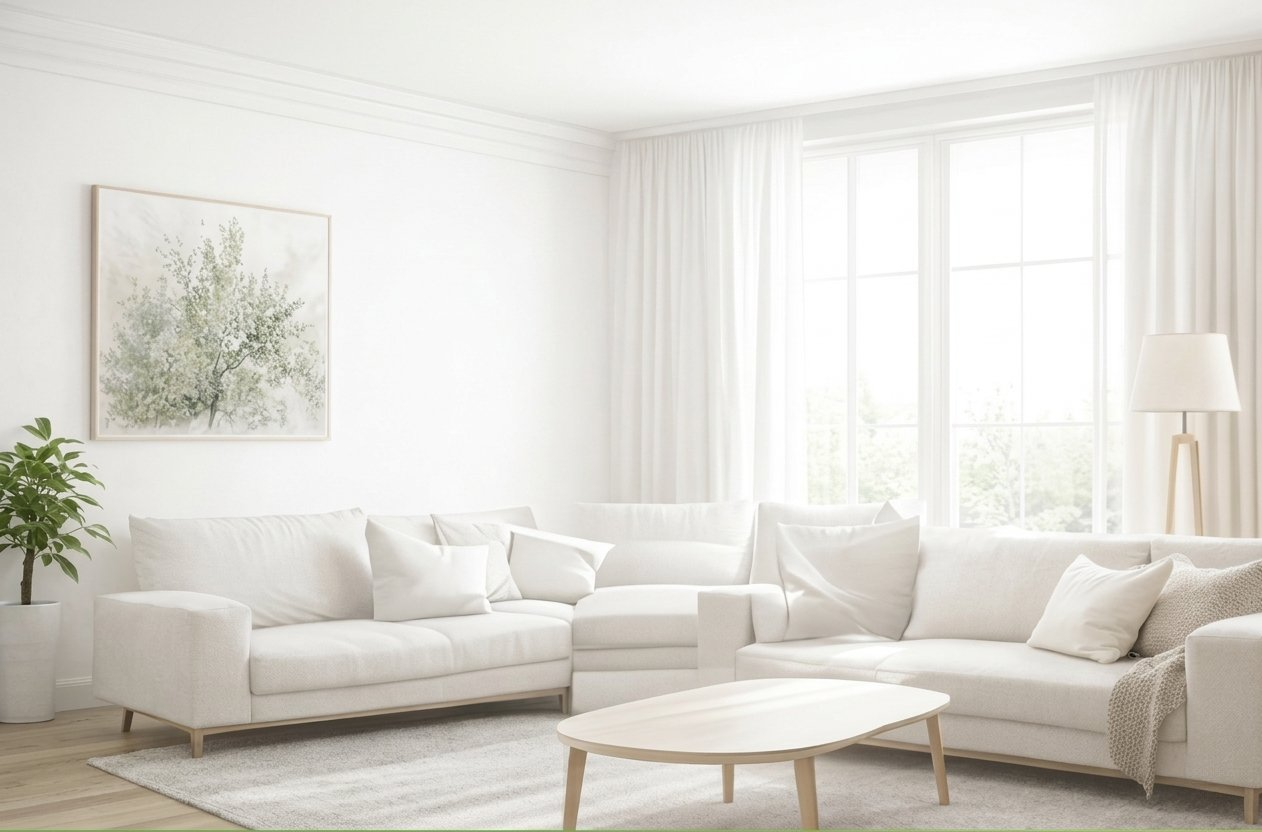
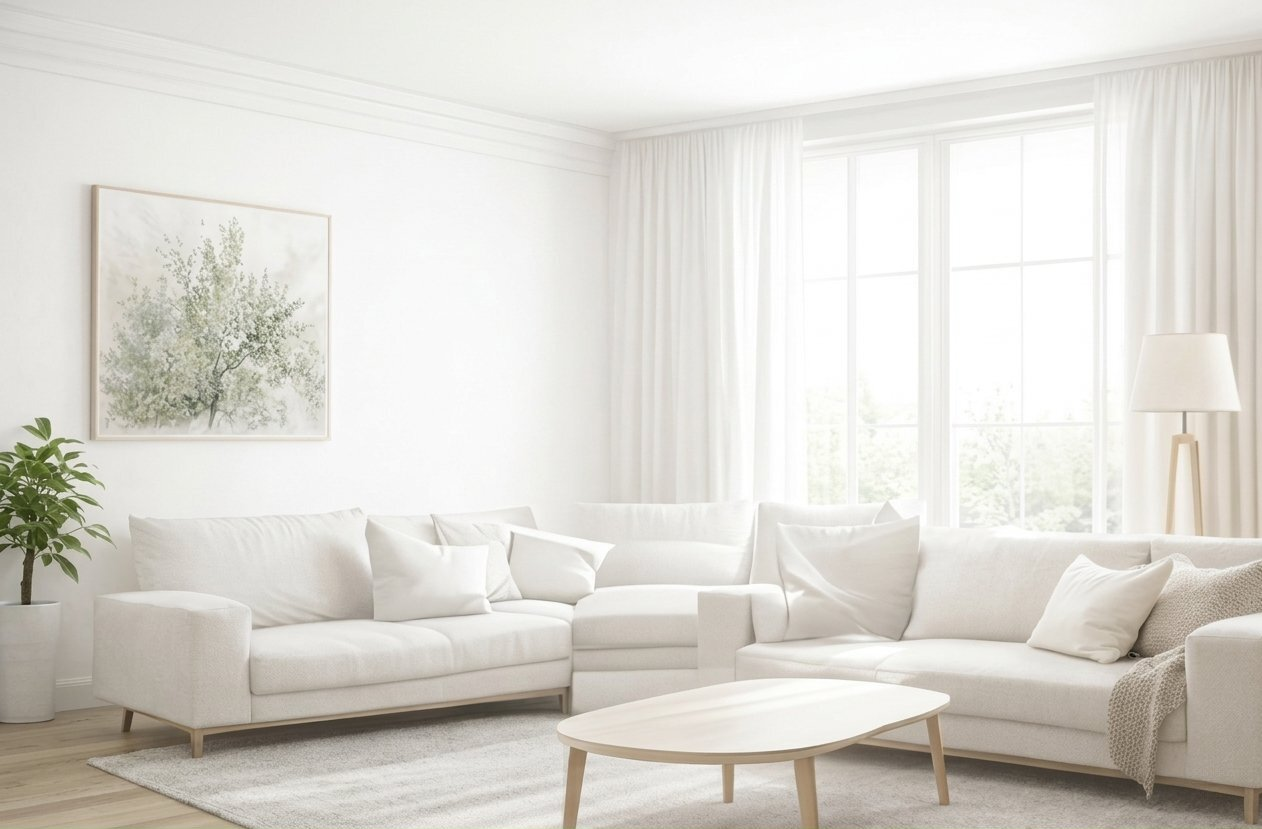
changes to the hero

diff --git a/components/EquipmentShowcase.tsx b/components/EquipmentShowcase.tsx
@@ -95,6 +95,7 @@ const EQUIPMENT = [
 
 function VideoBlock({ src, poster }: { src: string; poster: string }) {
   const [playing, setPlaying] = useState(false);
+  const [fullscreen, setFullscreen] = useState(false);
   const ref = useRef<HTMLVideoElement>(null);
 
   const handlePlay = () => {
@@ -102,31 +103,72 @@ function VideoBlock({ src, poster }: { src: string; poster: string }) {
     setPlaying(true);
   };
 
+  const toggleFullscreen = () => {
+    setFullscreen(!fullscreen);
+  };
+
   return (
-    <div className="relative w-full rounded-[20px] overflow-hidden bg-black shrink-0"
-         style={{ aspectRatio: "1/1.5", boxShadow: "0px 4px 20px rgba(0,0,0,0.18)" }}>
-      <video
-        ref={ref}
-        src={src}
-        poster={poster}
-        className="w-full h-full object-cover"
-        playsInline
-        preload="none"
-        controls={playing}
-        onEnded={() => setPlaying(false)}
-      />
-      {!playing && (
-        <div className="absolute inset-0 flex items-center justify-center bg-black/25 cursor-pointer"
-             onClick={handlePlay}>
-          <div className="w-[64px] h-[64px] bg-white/90 rounded-full flex items-center justify-center hover:bg-white transition-colors"
-               style={{ boxShadow: "0px 4px 16px rgba(0,0,0,0.25)" }}>
-            <svg width="22" height="26" viewBox="0 0 22 26" fill="none" style={{ transform: "translateX(2px)" }}>
-              <path d="M2 2L20 13L2 24V2Z" fill="#00db9a" stroke="#00db9a" strokeWidth="2" strokeLinecap="round" strokeLinejoin="round"/>
-            </svg>
+    <>
+      <div className="relative w-full rounded-[20px] overflow-hidden bg-black shrink-0"
+           style={{ aspectRatio: "1/1", boxShadow: "0px 4px 20px rgba(0,0,0,0.18)" }}>
+        <video
+          ref={ref}
+          src={src}
+          poster={poster}
+          className="w-full h-full object-cover"
+          playsInline
+          preload="none"
+          controls={playing}
+          onEnded={() => setPlaying(false)}
+        />
+        {!playing && (
+          <div className="absolute inset-0 flex items-center justify-center bg-black/25 cursor-pointer"
+               onClick={handlePlay}>
+            <div className="w-[64px] h-[64px] bg-white/90 rounded-full flex items-center justify-center hover:bg-white transition-colors"
+                 style={{ boxShadow: "0px 4px 16px rgba(0,0,0,0.25)" }}>
+              <svg width="22" height="26" viewBox="0 0 22 26" fill="none" style={{ transform: "translateX(2px)" }}>
+                <path d="M2 2L20 13L2 24V2Z" fill="#00db9a" stroke="#00db9a" strokeWidth="2" strokeLinecap="round" strokeLinejoin="round"/>
+              </svg>
+            </div>
           </div>
+        )}
+        {playing && (
+          <button
+            onClick={toggleFullscreen}
+            className="absolute top-3 right-3 w-[40px] h-[40px] bg-black/50 rounded-full flex items-center justify-center hover:bg-black/70 transition-colors z-10"
+            style={{ boxShadow: "0px 2px 8px rgba(0,0,0,0.3)" }}>
+            <svg width="20" height="20" viewBox="0 0 20 20" fill="none">
+              <path d="M3 3H8M3 3V8M3 3L8 8M17 3H12M17 3V8M17 3L12 8M3 17H8M3 17V12M3 17L8 12M17 17H12M17 17V12M17 17L12 12" 
+                    stroke="white" strokeWidth="2" strokeLinecap="round" strokeLinejoin="round"/>
+            </svg>
+          </button>
+        )}
+      </div>
+      
+      {/* Fullscreen modal */}
+      {fullscreen && (
+        <div className="fixed inset-0 bg-black/95 z-50 flex items-center justify-center p-4"
+             onClick={toggleFullscreen}>
+          <button
+            onClick={toggleFullscreen}
+            className="absolute top-4 right-4 w-[48px] h-[48px] bg-white/10 rounded-full flex items-center justify-center hover:bg-white/20 transition-colors"
+            style={{ boxShadow: "0px 4px 16px rgba(0,0,0,0.5)" }}>
+            <svg width="24" height="24" viewBox="0 0 24 24" fill="none">
+              <path d="M18 6L6 18M6 6L18 18" stroke="white" strokeWidth="2" strokeLinecap="round" strokeLinejoin="round"/>
+            </svg>
+          </button>
+          <video
+            src={src}
+            poster={poster}
+            className="max-w-full max-h-full"
+            playsInline
+            controls
+            autoPlay
+            onClick={(e) => e.stopPropagation()}
+          />
         </div>
       )}
-    </div>
+    </>
   );
 }
 
@@ -162,6 +204,7 @@ export default function EquipmentShowcase() {
   const { lang } = useLang();
   const [active, setActive] = useState(0);
   const scrollRef = useRef<HTMLDivElement>(null);
+  const autoplayRef = useRef<NodeJS.Timeout | null>(null);
 
   const handleDotClick = (i: number) => {
     setActive(i);
@@ -169,6 +212,11 @@ export default function EquipmentShowcase() {
     if (el) {
       el.scrollTo({ left: i * el.offsetWidth, behavior: "smooth" });
     }
+    // Сброс автоплея при ручном взаимодействии
+    if (autoplayRef.current) {
+      clearInterval(autoplayRef.current);
+    }
+    startAutoplay();
   };
 
   const handleScroll = () => {
@@ -178,6 +226,35 @@ export default function EquipmentShowcase() {
       setActive(idx);
     }
   };
+
+  const startAutoplay = () => {
+    if (autoplayRef.current) {
+      clearInterval(autoplayRef.current);
+    }
+    autoplayRef.current = setInterval(() => {
+      setActive((prev) => {
+        const next = (prev + 1) % EQUIPMENT.length;
+        const el = scrollRef.current;
+        if (el) {
+          el.scrollTo({ left: next * el.offsetWidth, behavior: "smooth" });
+        }
+        return next;
+      });
+    }, 5000); // 5 секунд
+  };
+
+  // Автоплей на мобильных
+  React.useEffect(() => {
+    const isMobile = window.innerWidth < 768;
+    if (isMobile) {
+      startAutoplay();
+    }
+    return () => {
+      if (autoplayRef.current) {
+        clearInterval(autoplayRef.current);
+      }
+    };
+  }, []);
 
   const titles: Record<string, string> = {
     RU: "Как работает наше оборудование",

diff --git a/lib/translations.ts b/lib/translations.ts
@@ -11,12 +11,12 @@ export const t = {
     advantages: {
       title: "Наши преимущества",
       cards: [
-        { title: "3-ступенчатая очистка",        text: "Уникальная технология глубокой очистки ткани в 3 этапа." },
-        { title: "Чистим до результата",          text: "Без ограничений по времени — работаем пока не будет идеально." },
-        { title: "Сушка за 2-4 часа",             text: "Быстро возвращаем мебель в использование." },
-        { title: "Безопасно для детей и животных", text: "Экологичные средства без вреда для здоровья." },
-        { title: "Профессиональный персонал",      text: "Опыт, сертификаты и добросовестная работа." },
-        { title: "Фиксированная цена",             text: "Никаких доплат после чистки — цена окончательная." },
+        { title: "VIP уровень обслуживания",        text: "Тщательный подход и результат, близкий к идеалу" },
+        { title: "Работа с дорогой мебелью",          text: "Бережный уход за деликатными тканями, мягкой мебелью и коврами" },
+        { title: "ЭКО и безопасность",             text: "Безопасные для детей, животных и аллергиков эко-средства и мощная паровая очистка, уничтожающая 99.9% бактерий и клещей" },
+        { title: "Профессиональное оборудование", text: "Моющий пылесос Kirby 2-го поколения, Sabrina, мощные парогенераторы и тряпки Raypath, позволяющие деликатно и в то же время глубоко очистить поверхность" },
+        { title: "Чистим до результата",      text: "Без ограничений по времени — работаем, пока не будет идеально без каких-либо доплат с вашей стороны." },
+        { title: "3-х ступенчатая очистка",             text: "Уникальная технология глубокой очистки ткани в 3 этапа, включающая глубокое удаление грязи, паровую дезинфекцию и финальную чистку с промыванием экстрактором." },
       ],
     },
     promo: { gift: "Мытьё окон в подарок!", condition: "При заказе от 1000 zl" },
@@ -81,12 +81,12 @@ export const t = {
     advantages: {
       title: "Nasze zalety",
       cards: [
-        { title: "3-stopniowe czyszczenie",          text: "Unikalna technologia głębokiego czyszczenia tkaniny w 3 etapach." },
-        { title: "Czyścimy do skutku",                text: "Bez ograniczeń czasowych — pracujemy aż będzie idealnie." },
-        { title: "Suszenie w 2–4 godziny",           text: "Szybko przywracamy meble do użytku." },
-        { title: "Bezpieczne dla dzieci i zwierząt", text: "Ekologiczne środki bez szkody dla zdrowia." },
-        { title: "Profesjonalny personel",            text: "Doświadczenie, certyfikaty i rzetelna praca." },
-        { title: "Stała cena",                        text: "Żadnych dopłat po czyszczeniu — cena ostateczna." },
+        { title: "Obsługa na poziomie VIP",          text: "Staranne podejście i wynik bliski perfekcji" },
+        { title: "Praca z drogimi meblami",                text: "Delikatna pielęgnacja delikatnych tkanin, mebli tapicerowanych i dywanów" },
+        { title: "EKO i bezpieczeństwo",           text: "Bezpieczne dla dzieci, zwierząt i alergików środki ekologiczne oraz potężne czyszczenie parowe, niszczące 99,9% bakterii i roztoczy" },
+        { title: "Profesjonalny sprzęt", text: "Odkurzacz piorący Kirby 2. generacji, Sabrina, potężne parownice i ściereczki Raypath, pozwalające delikatnie i jednocześnie głęboko oczyścić powierzchnię" },
+        { title: "Czyścimy do skutku",            text: "Bez ograniczeń czasowych — pracujemy, aż będzie idealnie, bez żadnych dopłat z Twojej strony." },
+        { title: "Trójetapowe czyszczenie",                        text: "Unikalna technologia głębokiego czyszczenia tkaniny w 3 etapach, obejmująca głębokie usuwanie brudu, dezynfekcję parową i finalne czyszczenie z płukaniem ekstraktorowym." },
       ],
     },
     promo: { gift: "Mycie okien w prezencie!", condition: "Przy zamówieniu od 1000 zł" },
@@ -151,12 +151,12 @@ export const t = {
     advantages: {
       title: "Our advantages",
       cards: [
-        { title: "3-stage deep cleaning",         text: "Unique technology of deep fabric cleaning in 3 stages." },
-        { title: "We clean until perfect",         text: "No time limits — we work until the result is perfect." },
-        { title: "Drying in 2–4 hours",           text: "Your furniture is ready to use again fast." },
-        { title: "Safe for children and pets",     text: "Eco-friendly products, safe for health." },
-        { title: "Professional staff",             text: "Experience, certificates and conscientious work." },
-        { title: "Fixed price",                    text: "No extra charges after cleaning — final price." },
+        { title: "VIP level service",         text: "Meticulous approach and near-perfect results" },
+        { title: "Work with expensive furniture",         text: "Gentle care for delicate fabrics, upholstered furniture and carpets" },
+        { title: "ECO and safety",           text: "Safe for children, pets and allergy sufferers eco-friendly products and powerful steam cleaning that destroys 99.9% of bacteria and mites" },
+        { title: "Professional equipment",     text: "Kirby 2nd generation vacuum cleaner, Sabrina, powerful steam generators and Raypath cloths, allowing delicate yet deep surface cleaning" },
+        { title: "We clean until perfect",             text: "No time limits — we work until perfect with no additional charges from you." },
+        { title: "3-stage cleaning",                    text: "Unique technology of deep fabric cleaning in 3 stages, including deep dirt removal, steam disinfection and final cleaning with extractor flushing." },
       ],
     },
     promo: { gift: "Window cleaning as a gift!", condition: "For orders from 1000 zl" },

diff --git a/components/Hero.tsx b/components/Hero.tsx
@@ -13,18 +13,17 @@ export default function Hero() {
   return (
     <section className="relative mt-[104px] max-lg:mt-[80px] h-[559px] max-md:min-h-[380px] max-md:h-auto overflow-hidden bg-white">
       <div className="absolute inset-0">
-        <Image src={ASSETS.heroBg} alt="" fill className="object-cover object-center md:object-center object-right" priority unoptimized />
-
+        <Image src={ASSETS.heroBg} alt="" fill className="object-cover object-bottom" priority unoptimized />
       </div>
       <div className="relative z-10 h-full flex items-center justify-center px-6 py-16">
         <div className="flex flex-col items-center gap-14 max-w-[835px] text-center">
           <div className="flex flex-col items-center gap-8">
             <h1 className="font-manrope font-semibold text-[48px] max-md:text-[32px] leading-[1.18] text-black"
-                style={{ textShadow: "0px 0px 12px rgba(255,255,255,0.15)" }}>
+                style={{ filter: "drop-shadow(0 0 12px rgba(255, 255, 255, 0.15))" }}>
               {tr.title}
             </h1>
             <p className="font-inter font-medium text-[20px] max-md:text-[16px] text-black/70"
-               style={{ textShadow: "0px 0px 12px rgba(255,255,255,0.15)" }}>
+               style={{ filter: "drop-shadow(0 0 12px rgba(255, 255, 255, 0.15))" }}>
               {tr.subtitle}
             </p>
           </div>

diff --git a/app/page.tsx b/app/page.tsx
@@ -8,7 +8,6 @@ import {
   Prices,
   Packages,
   Additional,
-  Equipment,
   Guarantees,
   CTA,
   Footer,
@@ -27,7 +26,6 @@ export default function Home() {
         <Packages />
         <Additional />
         <EquipmentShowcase />
-        <Equipment />
         <Guarantees />
         <CTA />
       </main>